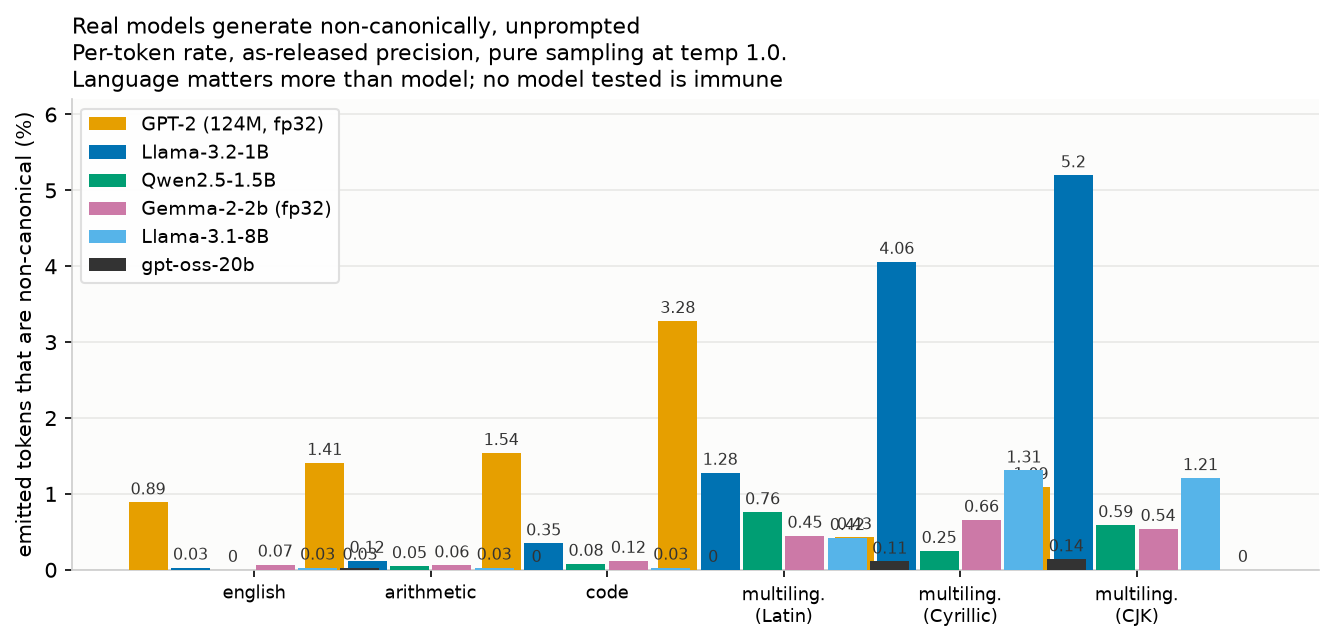
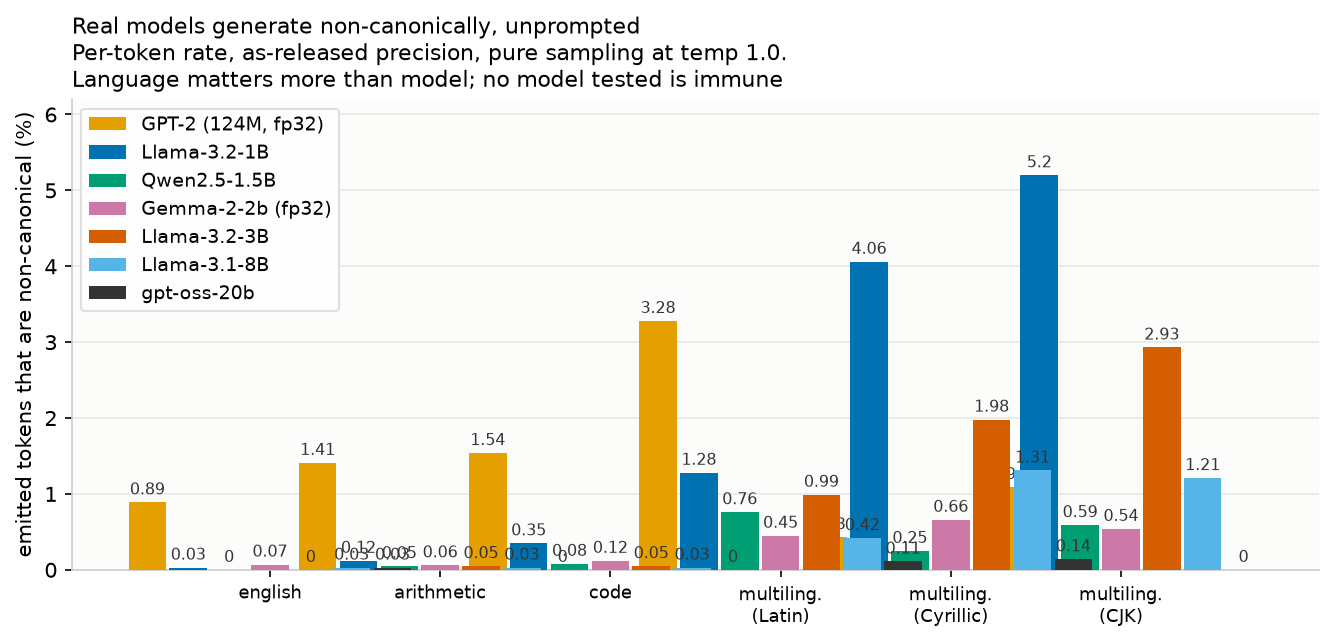
Address review: restore RESULTS.md, correct verified numbers
RESULTS.md was not verbatim as claimed. The path-rewrite sed
(s|experiments/retok/|retok/|) also matched inside
s3://brendanlong-experiments/retok/, silently renaming the bucket in two
places — and the header note then attributed that damage to the original log
as a pre-existing inconsistency. Rebuilt from the pristine file, rewriting
module paths only; the note now states exactly the two edits made.

Numbers corrected after recomputing from the published artifacts:

- Decay magnitude "~100x within 16 tokens" is ~57x (0.227 -> 0.004); ~110x is
  reached at 64 tokens. Fixed in README, WRITEUP and RESULTS.
- Temperature-1.0 rate "0.2-1.0%" took its lower bound from the temp-0.7 row;
  measured values are 0.42% (Qwen) / 0.95% (Llama), so 0.4-1.0%.
- Induction compliance "15-42%" matches neither model: recomputed from
  induce_*.jsonl it is 41/80 (51%) for Llama and 8/80 (10%) for Qwen. The
  headline induction numbers (38/41, 6/8, controls) are unaffected and confirmed.
- "Four tokenizer lineages" is five (GPT-2 BPE, tiktoken-derived, Qwen BBPE,
  SentencePiece, o200k).
- Multilingual spread "~10x" is 7.6x at most (GPT-2 3.28/0.43).
- "0.003 / 0.289 = 0.009" needs the unrounded 0.0027.
- Repaired an inherited broken table header (two header rows, one stale).

README claim scope:

- "Every number in the writeup" overstated what reproduce_analyses.sh covers:
  no per-generation artifacts were published for the decay or temperature
[…]

Changed region(s): [[0.1229, 0.2488, 0.922, 0.9953], [0.0615, 0.3421, 0.2151, 0.4977], [0.0922, 0.7465, 0.1229, 0.7776]]

diff --git a/common/gpu.py b/common/gpu.py
@@ -12,7 +12,7 @@ failure: it checks availability *and* runs a real GPU op (which is what actually
 catches the driver-mismatch case, where ``nvidia-smi`` succeeds but torch can't
 initialize CUDA). Run it as the first step of every cloud ``run:`` block via
 ``python -m common.gpu --require-cuda``; it covers every downstream invocation in
-that job. See docs/skypilot.md and the ``skypilot-runpod-gotchas`` wiki page.
+that job. Re-place onto a healthy host rather than retrying in place.
 """
 
 from __future__ import annotations
@@ -57,8 +57,8 @@ def assert_cuda_healthy() -> None:
         "This host cannot run CUDA with the installed torch. Almost always a "
         "torch-build vs host-driver mismatch (e.g. a cu13 wheel on a driver-570 "
         "/ CUDA-12.8 host) or a CPU-only torch in this venv. Pin the torch CUDA "
-        "build to match the fleet driver (see docs/skypilot.md and the "
-        "skypilot-runpod-gotchas wiki page), or re-place onto a healthy host."
+        "build to match the fleet driver (see your cloud provider's docs and the "
+        "host, not this job), or re-place onto a healthy host."
     )
     if not torch.cuda.is_available():
         raise RuntimeError(f"CUDA is not available. {describe_gpu()}. {hint}")

diff --git a/retok/figures.py b/retok/figures.py
@@ -124,6 +124,7 @@ PHASE2_RATES = {  # model -> per-domain % of TOKENS non-canonical ; color
     "Llama-3.2-1B": ([0.03, 0.12, 0.35, 1.28, 4.06, 5.20], "#0072B2"),
     "Qwen2.5-1.5B": ([0.00, 0.05, 0.08, 0.76, 0.25, 0.59], "#009E73"),
     "Gemma-2-2b (fp32)": ([0.07, 0.06, 0.12, 0.45, 0.66, 0.54], "#CC79A7"),
+    "Llama-3.2-3B": ([0.00, 0.05, 0.05, 0.99, 1.98, 2.93], "#D55E00"),
     "Llama-3.1-8B": ([0.03, 0.03, 0.03, 0.42, 1.31, 1.21], "#56B4E9"),
     "gpt-oss-20b": ([0.03, 0.00, 0.00, 0.11, 0.14, 0.00], "#333333"),
 }

diff --git a/README.md b/README.md
@@ -25,13 +25,13 @@ adversary required.
    actually needed three for. Even absent any hidden computation, the round trip
    perturbs interpretability: next-token distributions at a non-canonical span
    boundary diverge (median KL 0.227, top-1 flips 50%), decaying ~100× within 16
-   tokens but with the flip rate plateauing near 10%.
+   tokens (and ~110× by 64) but with the flip rate plateauing near 10%.
 
 2. **In-the-wild rates are low, and fall with scale.** Across seven models and
-   four tokenizer lineages at as-released precision, the share of emitted tokens
+   five tokenizer lineages at as-released precision, the share of emitted tokens
    that are non-canonical runs 0–5%, dominated by language (English ≈ 0%, CJK up
-   to 5.2%) and by temperature (**exactly 0% greedy**, 0.2–1.0% at temperature
-   1.0, 3–4% at 1.5). Within the Llama family, CJK drops 5.20% → 2.93% → 1.21%
+   to 5.2%) and by temperature (**0% under greedy decoding**, 0.4–1.0% at
+   temperature 1.0, 3–4% at 1.5). Within the Llama family, CJK drops 5.20% → 2.93% → 1.21%
    from 1B → 3B → 8B.
 
 3. **But models can be prompted into it.** "Write `light` immediately followed by
@@ -59,13 +59,15 @@ adversary required.
 |---|---|
 | [WRITEUP.md](WRITEUP.md) | The argument: findings, asks, limitations, related work |
 | [RESULTS.md](RESULTS.md) | Full run log — every command, seed, wandb id, caveat, and the design dead-ends |
-| [EXPERIMENT_PLAN.md](EXPERIMENT_PLAN.md) | Hypotheses and predictions, written before running |
+| [EXPERIMENT_PLAN.md](EXPERIMENT_PLAN.md) | Hypotheses and predictions, written before running — its Phase-2 figures are pre-registration guesses and were superseded by RESULTS.md |
 | [HF dataset](https://huggingface.co/datasets/brendanlong/retok-noncanonical-tokenization) | Per-generation token IDs for all seven models + trained checkpoints |
+| [wandb project](https://wandb.ai/brendanlong-com/retok/overview) | Public training runs — the run IDs in RESULTS.md resolve here |
 
 ## Layout
 
 ```
 retok/                  the experiment
+  config.py             pydantic configs; defaults reproduce the headline run
   tokenizer.py          hand-built vocab: digit tokens + merged D-digit tokens, canonicalize()
   data.py               reversed-addition task, CoT/direct encoding, streaming dataset
   model.py              decoder-only transformer + parallel per-digit readout head
@@ -79,11 +81,13 @@ retok/                  the experiment
   phase2_induce.py      prompted induction + matched controls
   phase2_verify.py      CPU-only recomputation of every rate from published token IDs
   figures.py            all figures
+  tests/                CPU tests for the tokenizer, task and dataset plumbing
 common/                 training harness vendored from the source monorepo
   artifacts.py          resolve published checkpoints/records from the HF dataset
   streaming.py          worker seeding/sharding for generated data
   checkpoint.py         save + `hf:` checkpoint resolution
   config.py, gpu.py, schedule.py, wandb_utils.py
+  tests/                regression tests for the validity-critical plumbing
 figures/                published figures
 scripts/                reproduction entry points
 skypilot/reproduce.yaml generic cloud-GPU task
@@ -102,17 +106,21 @@ test (24 GB covers everything except gpt-oss-20b, which wants ~44 GB).
 
 ## Reproducing
 
-**Analyses — no GPU, no accounts.** Every number in the writeup, from the
-published checkpoints and generation records:
+**Analyses — no GPU, no accounts.** The Phase-1 tables and the seven-model
+rate table, recomputed from the published checkpoints and generation records:
 
 ```bash
 bash scripts/reproduce_analyses.sh
 ```
 
-This downloads ~23 MB of checkpoints and the per-model record files from the HF
-dataset (cached by `huggingface_hub`), then recomputes the Phase-1 tables and
-re-derives the Phase-2 rates from raw token IDs rather than trusting our stored
-flags. One caveat: the Llama and Gemma *tokenizers* are gated on HuggingFace,
+This downloads the three main checkpoints (~0.3 MB) and the seven per-model
+record files (~6 MB) from the HF dataset (cached by `huggingface_hub`), then
+recomputes the Phase-1 tables and re-derives the Phase-2 rate table from raw
+token IDs rather than trusting our stored flags.
+
+The decay and temperature tables are **not** covered by this path — no
+per-generation artifacts were published for them, so reproducing those means
+re-running generation on a GPU (see below). One caveat: the Llama and Gemma *tokenizers* are gated on HuggingFace,
 so those models' rates need an accepted license plus `huggingface-cli login` —
 the verifier skips them with a clear message rather than failing. Nothing here
 reads wandb, so no wandb account is needed.
@@ -140,11 +148,11 @@ runs are cheap enough to do locally.
 
 ## Hardware used
 
-Phase-1 training ran on a local RTX 3060 Ti (8 GB): 3 seeds × ~35 min, plus a
+Phase-1 training ran on a local RTX 3060 (8 GB): 3 seeds × ~35 min, plus a
 12-point width sweep. Phase-2 generation ran on RunPod A40s (44 GB) via
 SkyPilot, except GPT-2 and the small Llamas which ran locally. gpt-oss-20b ran
-bf16-dequantized rather than its as-released MXFP4 (no H100 capacity was
-available); gpt-oss-120b was never run.
+on an A100, bf16-dequantized rather than its as-released MXFP4 (no H100 capacity
+was available); gpt-oss-120b was never run.
 
 ## Provenance
 

diff --git a/RESULTS.md b/RESULTS.md
@@ -1,24 +1,25 @@
 # Results: retok (hidden computational composition)
 
-> **Note on this log.** This file ships **verbatim** from the private monorepo
-> this experiment was extracted from, so it is an authentic record rather than a
-> tidied one. Its commands are in the monorepo's idiom; map them onto this repo
-> as follows:
+> **Note on this log.** This is the run log from the private monorepo this
+> experiment was extracted from — an authentic record rather than a tidied one,
+> including the dead-ends and self-corrections. Two mechanical edits were made:
+> module paths were rewritten (`experiments.retok.X` → `retok.X`) to match this
+> repo, and one broken markdown table header was repaired. Nothing else was
+> changed, so the commands below are in the monorepo's idiom. Map them as
+> follows:
 >
 > | in this log | in this repo |
 > |---|---|
 > | `./train.sh local retok -- ARGS` | `uv run python -m retok.train ARGS` |
-> | `python -m retok.<mod>` | unchanged (already rewritten from `experiments.retok.<mod>`) |
-> | `RUN_NAME=... ` / `--save-checkpoint` | no public equivalent — the final checkpoint is always written to `--checkpoint-dir` |
-> | any `s3://.../retok/checkpoints/<run>/final.pt` | `hf:checkpoints/<run>/final.pt` in the [HF dataset](https://huggingface.co/datasets/brendanlong/retok-noncanonical-tokenization) |
-> | any `s3://.../retok/artifacts/<f>.jsonl` | `<f>.jsonl` at the root of the same dataset |
->
-> (The log spells the private bucket inconsistently — `brendanlong-experiments` in some entries, `brendanlong-retok` in others. Neither is public; both map to the dataset above.)
+> | `RUN_NAME=...` / `--save-checkpoint` | no public equivalent — the final checkpoint is always written to `--checkpoint-dir` |
+> | `s3://brendanlong-experiments/retok/checkpoints/<run>/final.pt` | `hf:checkpoints/<run>/final.pt` in the [HF dataset](https://huggingface.co/datasets/brendanlong/retok-noncanonical-tokenization) |
+> | `s3://brendanlong-experiments/retok/artifacts/<f>.jsonl` | `<f>.jsonl` at the root of the same dataset |
 > | `skypilot/train-retok.yaml`, `skypilot/probe-retok*.yaml` | [`skypilot/reproduce.yaml`](skypilot/reproduce.yaml) (generic) |
 >
-> The wandb run IDs are in project `retok` under the `brendanlong` entity.
-> Reproduction entry points are in [`scripts/`](scripts/); see the
-> [README](README.md).
+> The private S3 bucket is not public; the HF dataset above is the public
+> equivalent. wandb run IDs are in project `retok` under the `brendanlong`
+> entity. Reproduction entry points are in [`scripts/`](scripts/).
+
 
 **Question.** Can a model's actual token stream differ from the canonical
 re-tokenization of its output in a way that flips per-position interpretability
@@ -47,7 +48,7 @@ RUN_NAME=retok-main-s$s ./train.sh local retok -- --seed $s --save-checkpoint --
 ```
 - Config: dim=16, `direct_fraction`=0.3, `generate_n`=20M (39k steps).
 - wandb runs: `gb6a5vp4` (s0), `2zhdhlkl` (s1), `wrlumw7d` (s2), project `retok`.
-- Checkpoints: `s3://brendanlong-retok/checkpoints/retok-main-s{0,1,2}/final.pt`.
+- Checkpoints: `s3://brendanlong-experiments/retok/checkpoints/retok-main-s{0,1,2}/final.pt`.
 
 | metric | s0 | s1 | s2 | mean |
 |---|---|---|---|---|
@@ -248,7 +249,7 @@ uv run python -m retok.phase2_probe --model <name> --dtype auto \
     --jsonl-out data/retok/artifacts/<name>.jsonl
 
 # re-derive every rate from the published token IDs (CPU only)
-aws s3 sync s3://brendanlong-retok/artifacts/ data/retok/artifacts/
+aws s3 sync s3://brendanlong-experiments/retok/artifacts/ data/retok/artifacts/
 uv run python -m retok.phase2_verify data/retok/artifacts/*.jsonl
 ```
 
@@ -387,8 +388,6 @@ Both would show that *we* can confuse the model by manipulating its input, which
 is already known; here the input is ordinary text and the model must choose the
 segmentation itself.
 
-| probe | prompt | Llama-3.2-1B | Qwen2.5-1.5B |
-|---|---|---|---|
 | probe | Llama-3.2-1B | Qwen2.5-1.5B |
 |---|---|---|
 | **concat** — "write `light` immediately followed by `house`, no separator" | **93%** induced (38/41) | **75%** (6/8) |
@@ -463,7 +462,8 @@ emitted. Walking k tokens past the span (comparing at matched *text* positions):
 | 32 | 44 | 0.012 | 0.003 | 11% |
 | 64 | 41 | 0.022 | 0.002 | 15% |
 
-- **Magnitude dilutes ~100× within 16 tokens** (median KL 0.227 → 0.004).
+- **Magnitude dilutes ~57× within 16 tokens** (median KL 0.227 → 0.004),
+  and ~110× by 64 tokens (→ 0.002).
 - **But the top-1 flip rate does not reach zero** — it falls from 50% to a
   plateau around **9–15%** and stays there out to 64 tokens. A re-tokenized
   transcript is still picking a different argmax at roughly 1 in 8 positions,

diff --git a/WRITEUP.md b/WRITEUP.md
@@ -45,7 +45,7 @@ the merged-token subspace* — "if it goes down the one-token branch, does it pi
 the right one?" The 0.003 is *unconditional*, diluted by the ~71% of probability
 mass sitting on the digit branch. Conditional on the merged branch the model
 gives the correct token 0.9%, which is what wins a 1000-way argmax ~1.3% of the
-time; 0.003 ÷ 0.289 = 0.009 reconciles them. The unconditional number is the one
+time; 0.0027 ÷ 0.289 = 0.009 reconciles them. The unconditional number is the one
 the detector below needs, since it asks how likely the transcript is *as a
 one-step generation*.</sub>
 
@@ -69,7 +69,8 @@ was never emitted. Walking forward from a non-canonical span in Llama-3.2-1B:
 | 16 | 0.004 | 9% |
 | 64 | 0.002 | 15% |
 
-Magnitude decays ~100× within 16 tokens, but the flip rate plateaus near 10%
+Magnitude decays ~57× within 16 tokens (and ~110× by 64), but the flip rate
+plateaus near 10%
 rather than vanishing. Those distant flips are near-ties (median KL 0.002), so
 the practical reading is: **the span's neighbourhood is genuinely unreliable for
 per-position analysis; further out, only positions where the model was
@@ -80,7 +81,7 @@ near-indifferent are affected.**
 Detection is mechanical if you keep the IDs the model emitted: a generation is
 non-canonical iff `encode(decode(ids)) != ids`.
 
-Seven models, four tokenizer lineages, each at its as-released precision, pure
+Seven models, five tokenizer lineages, each at its as-released precision, pure
 sampling at temperature 1.0. Percentage of **emitted tokens** that are
 non-canonical:
 
@@ -97,10 +98,10 @@ non-canonical:
 Three things stand out.
 
 **Language matters more than model.** English is near zero for every modern
-model; CJK reaches 5.2%. A single "multilingual" number would hide a ~10× spread.
+model; CJK reaches 5.2%. A single "multilingual" number would hide a ~8× spread within one model.
 
 **Temperature dominates everything.** Exactly **0% under greedy decoding**,
-**0.2–1.0%** of tokens at temperature 1.0, and **3–4%** by temperature 1.5 — a
+**0.4–1.0%** of tokens at temperature 1.0, and **3–4%** by temperature 1.5 — a
 ~4× jump for half a point of temperature. This is a tail-sampling phenomenon:
 models concentrate mass on the canonical continuation, and these tokens come out
 of the tail.
@@ -141,8 +142,9 @@ The model has no handle on its own tokenization; what works is giving it a
 the concepts. Note the `digits` probe, the direct analogue of our toy, fails: you
 can't simply ask a model to emit a number digit-by-digit at the token level.
 
-Compliance is modest — models add quotes and explanations, so they emit the bare
-target only 15–42% of the time. The honest claim is "reliable **when** it
+Compliance is modest and varies sharply by model — models add quotes and
+explanations, so the bare target is emitted in only 41/80 concat trials for
+Llama-3.2-1B (51%) and 8/80 for Qwen2.5-1.5B (10%). The honest claim is "reliable **when** it
 complies."
 
 This matters mainly as a statement about mechanism. A policy wouldn't need to

diff --git a/hf_dataset_card.md b/hf_dataset_card.md
@@ -66,9 +66,14 @@ repetition_penalty=1.0` — pinned explicitly, not inherited from each repo's
 | `<model>.jsonl` | per-generation records backing the rate table |
 | `induce_<model>.jsonl` | prompted-induction trials + matched controls |
 | `checkpoints/retok-main-s{0,1,2}/final.pt` | the 3 main toy-model seeds (2 layers, dim 16) |
-| `checkpoints/retok-sweep-{cot,1step}-d<N>/final.pt` | width sweep, dim ∈ {8,12,16,24,32,64} |
+| `checkpoints/retok-sweep-cot-d<N>/final.pt` | width sweep, CoT arm, dim ∈ {8,12,24,32,64} |
+| `checkpoints/retok-sweep-1step-d<N>/final.pt` | width sweep, one-step arm, dim ∈ {8,12,16,24,32,64} |
 | `checkpoints/retok-sweep-{1L,2L,4L}/final.pt` | depth sweep |
-| `checkpoints/**/final.pt.json` | per-run metadata sidecar (config + final eval) |
+| `checkpoints/retok-main-s<seed>/final.pt.json` | metadata sidecar (config + final eval) |
+
+17 runs in total. The CoT arm has no `d16` entry because the dim=16 CoT model
+*is* `retok-main-s{0,1,2}` — that is the headline run. Sidecars exist only for
+those three; the sweep runs predate the sidecar.
 
 Checkpoints are `{"step", "model_state_dict", "model_config"}` dicts, loadable
 with `torch.load(..., weights_only=True)`, and resolve by run name from the code:
